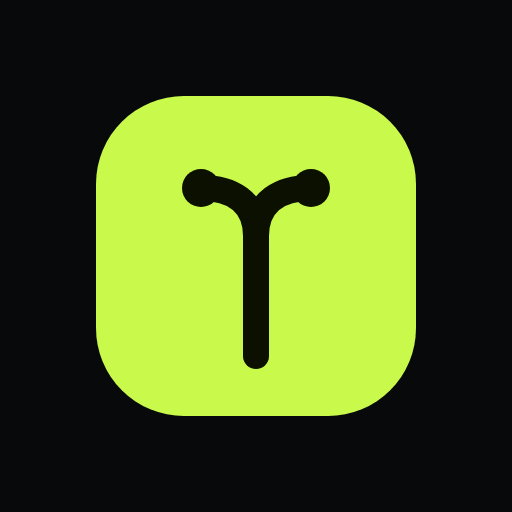
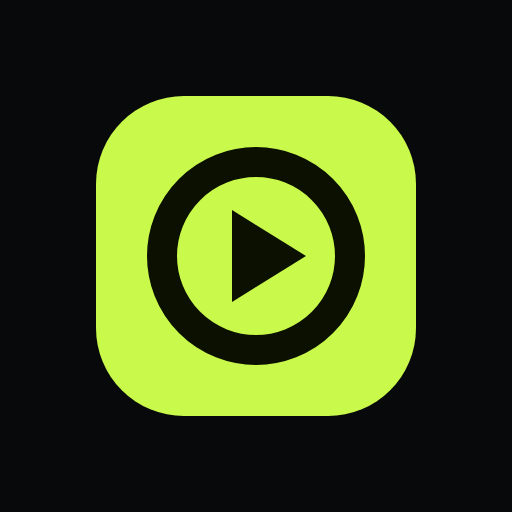
feat(brand): new mark - a token with a play triangle
The fork-in-the-road glyph encoded the name but collapsed into a Y at 16px
and read as a stick figure. The new mark is a coin with a play triangle cut
into it: the thing you would once have inserted, and the button you press
instead. It survives 16px as a ring and a solid shape, and it matches copy
the site already had - the hero's "TODAY'S TOKEN" and the Coin-op theme.

Same drawing everywhere: sprite #a-mark, favicon, icon.svg, the 192/512
app icons, apple-touch-icon and the OG card.

Changed region(s): [[0.2812, 0.2812, 0.7188, 0.7188]]

diff --git a/scripts/og-card.html b/scripts/og-card.html
@@ -157,9 +157,8 @@
   <div class="top">
     <div class="mark">
       <svg viewBox="0 0 32 32" fill="none">
-        <path d="M16 26V16M16 16c0-3.6-2.6-4.8-5.5-4.8M16 16c0-3.6 2.6-4.8 5.5-4.8" stroke="#0b1000" stroke-width="2.8" stroke-linecap="round" stroke-linejoin="round"/>
-        <circle cx="10.5" cy="11.2" r="2" fill="#0b1000"/>
-        <circle cx="21.5" cy="11.2" r="2" fill="#0b1000"/>
+        <circle cx="16" cy="16" r="9.4" stroke="#0b1000" stroke-width="3"/>
+        <path d="M13.6 11.4 21 16l-7.4 4.6Z" fill="#0b1000"/>
       </svg>
     </div>
     <div class="brand">arcade<b>fork</b></div>

diff --git a/README.md b/README.md
@@ -214,8 +214,10 @@ One system, three ingredients — ink, signal, coin.
   and data). All three are SIL OFL and **self-hosted** from `/fonts`, latin
   subset only: no third-party connection, no privacy leak, no font flash.
   Total: 115 kB for all three variable faces.
-- **Mark** — a path that forks: two branches from one line. It is the same
-  drawing in the wordmark, the favicon, the app icons and the social card.
+- **Mark** — a token with a play triangle cut into it: the coin you would
+  once have inserted, and the button you press instead. It is the same drawing
+  in the wordmark, the favicon, the app icons and the social card, and it
+  still reads at 16px where a thinner mark turned to mush.
 - **Hairlines, not borders** — every surface is a single `inset` 1px line plus
   a soft close shadow, so panels read as one material rather than a stack of
   boxes.
